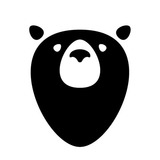
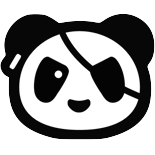
finish styling!

diff --git a/sitbot.html b/sitbot.html
@@ -8,29 +8,118 @@
   <head>
     <title>Getting Started Extension's Popup</title>
     <style>
+      @import url(https://fonts.googleapis.com/css?family=Source+Sans+Pro:200,300,400,600,700);
+      html {
+        background-color: #EFEFF0;
+      }
       body {
-        font-family: "Segoe UI", "Lucida Grande", Tahoma, sans-serif;
+        font-family: "Source Sans Pro", "Lucida Grande", Tahoma, sans-serif;
         font-size: 100%;
+        margin: 0px;
+      }
+      .logo {
+        max-width: 100px;
+        max-height: 100px;
+        display: block;
+        margin: auto;
+      }
+      h1 {
+        text-align: center;
       }
       .container {
         /* avoid an excessively wide status text */
         overflow: hidden;
-        width: 400px;
-        padding: 20px;
+        width: 260px;
+        padding: 10px;
       }
       .hidden {
         display: none;
       }
+      input, select, button, .button {
+        font-family: "Source Sans Pro";
+        display: block;
+        padding: 10px;
+        width: 100%;
+        box-sizing: border-box;
+        margin-bottom: 10px;
+        border-radius: 3px;
+        border: none;
+        font-size: 16px;
+        font-weight: 300;
+        border: 1px solid #FFF;
+        background-color: #FFF;
+        -webkit-appearance: none;
+      }
+      select {
+        background: url('arrow.png') 96% no-repeat #FFF;
+      }
+      input:focus {
+        border: 1px solid #24ADE9;
+      }
+      .button {
+        color: #FFFFFF;
+        border: 1px solid #24ADE9;
+        background-color: #25ADE9;
+        text-align: center;
+        cursor: pointer;
+        text-decoration: none;
+      }
+      .button:hover {
+        background-color: #0C94D0;
+        border: 1px solid #0C94D0;
+      }
+      .button:active {
+        background-color: #007AB6;
+        border: 1px solid #007AB6;
+      }
+      *:focus {
+          outline: 0;
+      }
+
+    .spinner {
+      display: none;
+      height: 14px;
+    }
+
+    .spinner__circle {
+      height: 16px;
+      width: 16px;
+      margin-left: 20px;
+
+      -webkit-animation: rotation .6s infinite cubic-bezier(.12,.52,.47,.81);
+      -moz-animation: rotation .6s infinite cubic-bezier(.18, .51, .64, .39);
+      -o-animation: rotation .6s infinite cubic-bezier(.18, .51, .64, .39);
+      animation: rotation .6s infinite cubic-bezier(.18, .51, .64, .39);
+
+      border-left: 3px solid rgba(239, 239, 240, .25);
+      border-top: 3px solid rgba(239, 239, 240, .25);
+      border-bottom: 3px solid rgba(239, 239, 240, .25);
+      border-right: 3px solid rgba(239, 239, 240, 1);
+
+      border-radius: 100%;
+    }
+
+    .spinner--active .spinner {
+      display: inline-block;
+    }
+
+@-webkit-keyframes rotation {
+  from {-webkit-transform: rotate(0deg);}
+  to {-webkit-transform: rotate(359deg);}
+}
+
+@keyframes rotation {
+  from {transform: rotate(0deg);}
+  to {transform: rotate(359deg);}
+}
     </style>
     <script type="text/javascript" src="jquery.min.js"></script>
     <script type="text/javascript" src="popup.js"></script>
   </head>
   <body>
     <div class="container">
-      <h1>Welcome to Sitbot!</h1>
-      <p>
-        Use the form below to search for GitHub profiles!
-      </p>
+      <img class="logo" src="/icon.png">
+      <h3>Search GitHub users</h3>
       <form id="github-form">
         <input type="text" name="location" placeholder="Location...">
         <input type="text" name="language" placeholder="Language...">
@@ -39,14 +128,15 @@
           <option value="">Best Match</option>
           <option value="repositories">Most Repositories</option>
         </select>
-        <input type="submit">
+        <input class="button" type="submit">
       </form>
-      <button id="scrape-button">Start Scraping!</button>
-      <div class="progress" class="hidden">
-        <span class="progress__current_page">0</span>
-        /
-        <span class="progress__total_pages">0</span>
-      </div>
+      <h3>Scrape GitHub users</h3>
+      <a id="scrape-button" class="button">
+        <span class="btn-text">Start Scraping!</span>
+        <div class="spinner spinner--active ">
+          <div class="spinner__circle"></div>
+        </div>
+      </a>
     </div>
   </body>
 </html>

diff --git a/popup.js b/popup.js
@@ -67,17 +67,29 @@ SITBOT_EXTENSION = (function() {
       window.setTimeout(injectContentScripts,3000);
   }
 
-  function initProgressIndicator(total_pages) {
-    progress = $('.progress');
-    progress.removeClass('hidden');
-    progress.find('.progress__total_pages').text(total_pages);
+  function initProgressIndicator(current_page, total_pages) {
+    progress = {
+      current_page: current_page,
+      total_pages: total_pages,
+      button: $('#scrape-button'),
+      text: $('#scrape-button .btn-text')
+    }
+    progress.button.addClass('spinner--active');
   }
 
   function updateProgressIndicator(data) {
     if(typeof(progress) == "undefined") {
       initProgressIndicator(data.total_pages);
     }
-    progress.find('.progress__current_page').text(data.current_page);
+    progress.current_page = data.current_page;
+    progress.total_pages = data.total_pages;
+    var text = progress.current_page + " pages out of " + progress.total_pages;
+    progress.text.text(text);
+  }
+
+  function removeProgressIndicator(text) {
+    progress.text.text(text);
+    progress.button.removeClass('spinner--active');
   }
 
   function generateDownloadLink(data) {
@@ -87,16 +99,14 @@ SITBOT_EXTENSION = (function() {
 
     var data_blob = new Blob([data], {type: MIME_TYPE});
 
-    var a = document.createElement('a');
+    var a = progress.button[0];
 
     a.download = 'sitbot_results.csv';
     a.href = window.URL.createObjectURL(data_blob);
-    a.textContent = 'Download ready';
 
+    removeProgressIndicator('Download Results');
     a.dataset.downloadurl = [MIME_TYPE, a.download, a.href].join(':');
     a.draggable = true; // Don't really need, but good practice.
-
-    $('.container').append(a);
   }
 
   function processAndShowResults() {

diff --git a/sitbot.js b/sitbot.js
@@ -1,5 +1,5 @@
 SITBOT_CRAWLER = (function () {
-  var total_pages;
+  var status;
   var cur_page = 1;
   var new_results_arrived = false;
 
